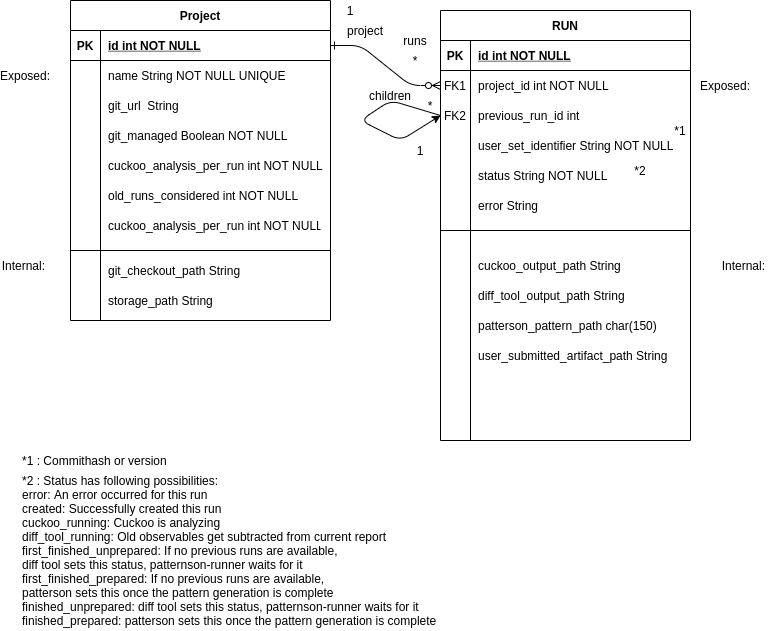
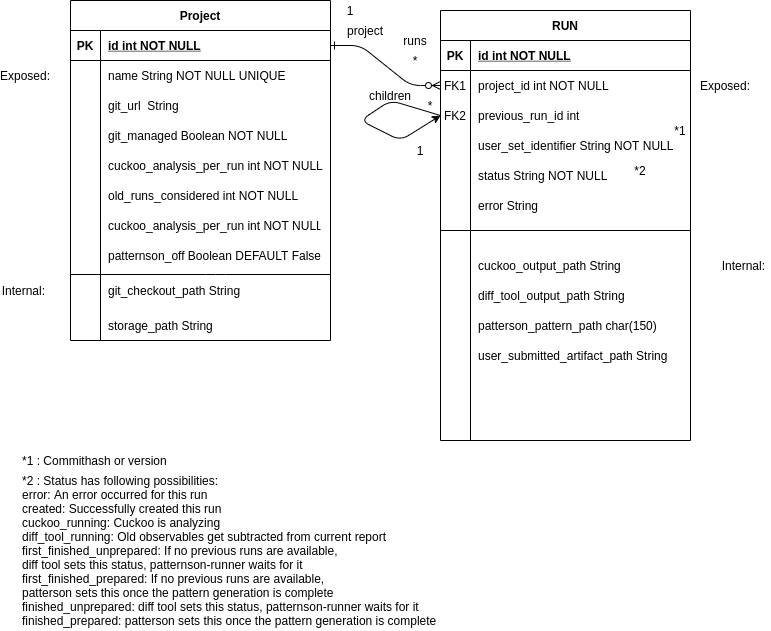
Allow to turn off patternson

Changed region(s): [[0.1245, 0.3914, 0.4358, 0.542], [0.0, 0.3914, 0.0623, 0.4818]]

diff --git a/models/project.py b/models/project.py
@@ -9,6 +9,7 @@ class Project(db.Model):
     git_managed = db.Column(db.Boolean(), unique=False, nullable=False)
     cuckoo_analysis_per_run = db.Column(db.Integer(), unique=False, nullable=False)
     old_runs_considered = db.Column(db.Integer(), unique=False, nullable=False, default=1)
+    patternson_off = db.Column(db.Boolean(), unique=False, nullable=False, default=False)
     # Internal:
     git_checkout_path = db.Column(db.String(500), unique=False, nullable=True)
     storage_path = db.Column(db.String(500), unique=False, nullable=True)
@@ -21,5 +22,6 @@ class Project(db.Model):
             "git_url": self.git_url,
             "git_managed": self.git_managed,
             "cuckoo_analysis_per_run": self.cuckoo_analysis_per_run,
+            "patternson_off": self.patternson_off,
             "old_runs_considered": self.old_runs_considered,
         }

diff --git a/models/run.py b/models/run.py
@@ -2,6 +2,9 @@ from db import db
 
 
 class Run(db.Model):
+    __table_args__ = (
+        db.UniqueConstraint('project_id', 'user_set_identifier'),
+    )
     # External:
     id = db.Column(db.Integer, primary_key=True)
     project_id = db.Column(db.Integer, db.ForeignKey('project.id'), nullable=False)
@@ -9,7 +12,7 @@ class Run(db.Model):
     children = db.relationship("Run",
                                backref=db.backref('previous_run', remote_side=[id])
                                )
-    user_set_identifier = db.Column(db.String(120), unique=True, nullable=False)
+    user_set_identifier = db.Column(db.String(120), unique=False, nullable=False)
     # error: An error occurred for this run
     # created: Successfully created this run
     # cuckoo_running: Cuckoo is analyzing

diff --git a/resources/project.py b/resources/project.py
@@ -20,6 +20,7 @@ class Project(Resource):
                                   'to subtract observables from the current run',
                              required=True)
     post_parser.add_argument('git_url', type=str, help='The git url of the project', required=False)
+    post_parser.add_argument('patternson_off', type=str, help='If patterns should be learned', required=False)
     post_parser.add_argument('git_managed', type=bool, help='If project is managed by git', required=True)
     post_parser.add_argument('cuckoo_analysis_per_run', type=int, help='How many times a run is analysed in cuckoo',
                              required=True)

diff --git a/diff_tool/runner.py b/diff_tool/runner.py
@@ -45,7 +45,8 @@ def actual_procedure(run: Run):
     path_of_reports: List[str] = get_list_of_reports_from_previous_run(run)
     pattern_paths: List[str] = get_pattern_of_previous_run(run)
     output_path = subtract_observables_from_old_run(path_of_current_report, path_of_reports, run)
-    subtract_pattern_from_old_runs(output_path, pattern_paths, run)
+    if not run.project.patternson_off:
+        subtract_pattern_from_old_runs(output_path, pattern_paths, run)
     set_run_status(run, "finished_unprepared")
 
 

diff --git a/patternson_runner/runner.py b/patternson_runner/runner.py
@@ -12,6 +12,10 @@ from patternson_runner.obspat.patternson import start_patternson
 def run(run_id: int):
     init()
     run = Run.query.get(run_id)
+    if run.project.patternson_off:
+        logging.info("patternson turned off for this project")
+        set_status_for_run_and_wait(run)
+        db.session.commit()
     try:
         actual_procedure(run)
     except Exception as e:
